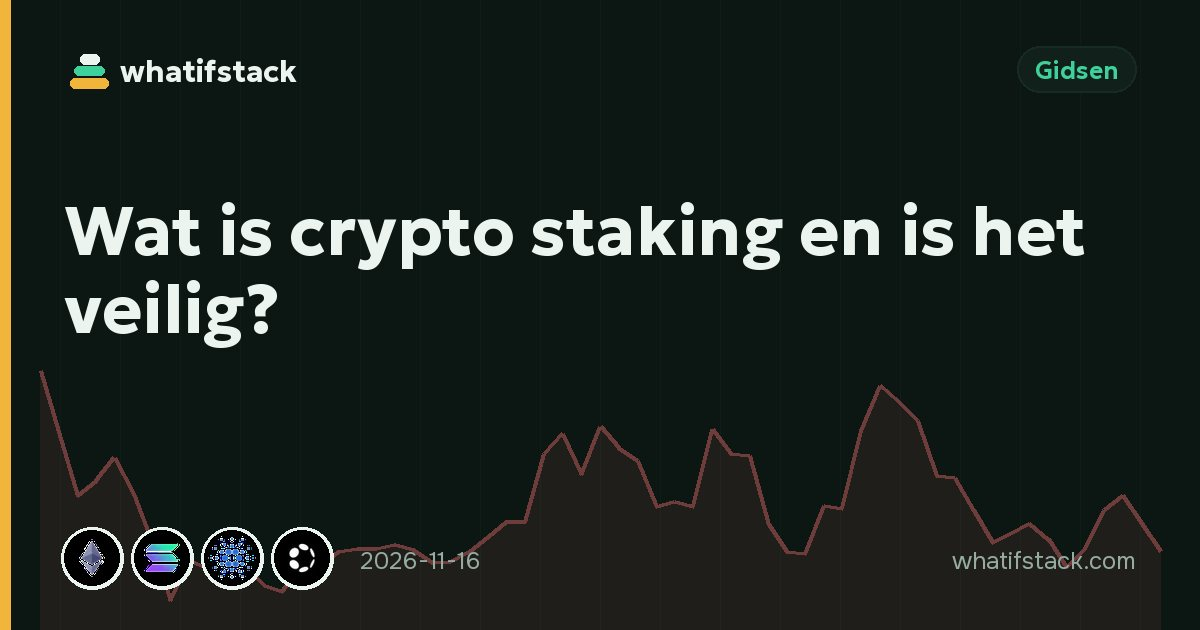
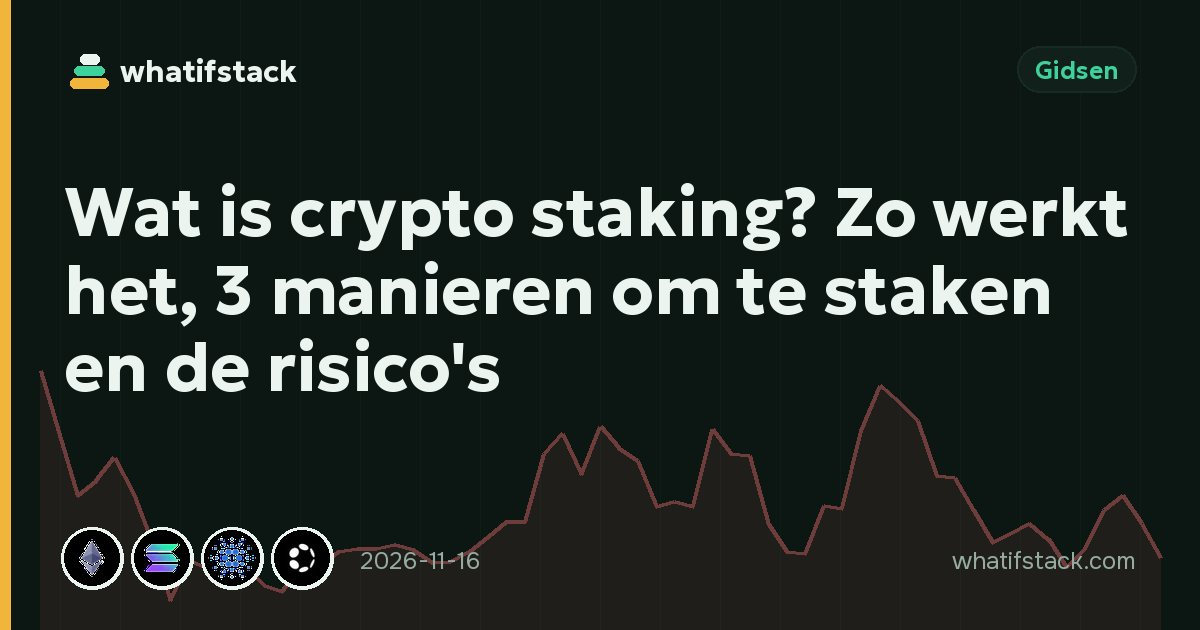
SEO: 5 pages (what-is-staking nl/de/uk, nl/asml-etf, es/cocoa) + 10 indexing requests
Claude-Session: https://claude.ai/code/session_01Nmn9VNaMtVVY8xk17eaQh1

Changed region(s): [[0.0308, 0.2714, 0.9558, 0.6333], [0.9558, 0.8444, 0.9867, 0.8746]]

diff --git a/social/seo-log.md b/social/seo-log.md
@@ -25,8 +25,14 @@ date | url | query | impressions | position | CTR | what changed | result after 
 2026-11-26 | /th/wti/ (asset) | ราคาน้ำมันโลก กราฟ (7 / 45.1); ราคาน้ำมันดิบ 7 / 53.6; วิเคราะห์ wti 4 / 39.8; กราฟ ราคาน้ำมัน โลก 4 / 64.5 | 38 | 50.5 | 0 % | only the asset's own th description (data/desc/th.json): starts «ราคาน้ำมันดิบ WTI…», NYMEX, $/barrel, one of the two world oil prices with Brent, points to the chart. Live check OK (chart OANDA:WTICOUSD, 390 px OK) | due 2026-12-10
 2026-11-26 | /vi/wti/ (asset) | giá dầu wti hôm nay (3 / 36.0); nền tảng giao dịch dầu 6 / 33.8; giá dầu thô thế giới hiện tại 2 / 7.5 | 36 | 39.7 | 0 % | only the asset's own vi description (data/desc/vi.json): starts «Giá dầu WTI hôm nay là giá dầu thô chuẩn của Mỹ…», NYMEX, $/barrel, with Brent one of the two world oil prices. Live check OK (chart OANDA:WTICOUSD, 390 px OK) | due 2026-12-10
 2026-11-26 | /ja/ntt/ (asset) | ntt 株価 (3 / 49.7) | 36 | 61.6 | 0 % | only the asset's own ja description (data/desc/ja.json): starts «NTT株価（証券コード9432）は東証プライムで円建て…» + 2023 25-for-1 split (buyable in small amounts). Live check OK (own 9432 chart, local price ¥, 390 px OK) | due 2026-12-10
+2026-11-27 | /nl/blog/what-is-staking/ | crypto staking (21 / 42.9, shared nl+de); wat is crypto staking 3 / 16.0; crypto staken 1 / 38 | 22 | 31.7 | 0 % | title «Wat is crypto staking? Zo werkt het, 3 manieren om te staken en de risico's», description (4 steps, lock-ups days–weeks, 3 ways, checklist), lead starts «Crypto staking betekent…» and names the 3 ways in sentence 2; new cover. Live check OK (no raw {{ }}, 390 px OK) | due 2026-12-11
+2026-11-27 | /de/blog/what-is-staking/ | was ist krypto staking 3 / 54.7; krypto-staking anbieter 5 / 42.0; krypto-staking anbieter vergleich 4 / 23.2 | 27 | 54.4 | 0 % | title «Was ist Krypto-Staking? Einfach erklärt: wie es funktioniert und wie sicher es ist», description (4 steps, 3 ways), lead answers in 2 sentences + link to /de/blog/crypto-staking-providers-compared/ (the «Anbieter Vergleich» queries belong to that article — not put into this title to avoid two pages for one query); new cover. Live check OK | due 2026-12-11
+2026-11-27 | /blog/what-is-staking/ (uk) | що таке стейкінг 5 / 24.0; що таке стейкінг криптовалют 4 / 41.2; стейкінг криптовалют 1 / 18.0 | ~10 | ~30 | 0 % | title kept (already matches), description (4 steps, days–weeks lock-ups, 3 ways, checklist), first sentence «Стейкінг криптовалют — це…» + the 3 ways; new cover. Live check OK | due 2026-12-11
+2026-11-27 | /nl/asml-etf/ (asset) | koers asml 6 / 53.8; asml koers 5 / 45.2; koersdoel asml 5 / 58.0; asml grafiek 2 / 22.5; asml koers euro 1 / 9.0 | 42 | 58.0 | 0 % | only the asset's own nl description (data/desc/nl.json): starts «De koers van ASML hier is die van het aandeel op de Nasdaq in dollars; in Amsterdam noteert ASML op Euronext in euro…» (explains $ vs € quote). Live check OK (chart symbol ASML, 390 px OK); template meta says «−11,9% in een jaar» = the 1-year $10/day result (r1), not the price change — template, left for the owner | due 2026-12-11
+2026-11-27 | /es/cocoa/ (asset) | precio de cacao hoy 3 / 54.0; precio del cacao según la bolsa de valores 2 / 42.0; precio cacao 2 / 49.5; precio del cacao hoy 2 / 53.0; bolsa de valores de cacao 1 / 36 | 32 | 48.8 | 0 % | only the asset's own es description (data/desc/es.json): starts «El precio del cacao hoy es el del contrato de futuros de la bolsa ICE de Nueva York, en dólares por tonelada métrica…». Live check OK (own chart CC=F, 390 px OK) | due 2026-12-11
 
 ## Notes (not changed — template/code pages, for the owner)
+- 2026-11-27: template meta on asset pages reads «{r1} in een jaar / en un año» but r1 is the 1-year $10/day DCA result, not the price change (e.g. /es/cocoa/ «+8,99% en un año» while the price is −1.9% vs 12 months ago; /nl/asml-etf/ «−11,9%» while the price is ~+24%) — code in scripts/i18n_ap.py + build.py, not touched (owner decision). /csu/revenue/ 17 / 4.5 («constellation software») and /ghc/ 36 / 8.0 («graham holdings» on the uk page; GHC analysis written 2026-11-25) left alone. Earlier changes not due before 2026-12-07.
 - 2026-11-26: biggest pages are still template hubs with junk/anonymised queries: /pt/converter/ 639 / 8.3, /it/converter/ 295, /fr/converter/ 230, /ru/largest-companies/ 193 / 9.0 (2 clicks), /zh/largest-companies/dividend/ 169 / 2.0. /ru/converter/usdt-rub/ 36 / 22.5 («из usdt в рубли», «курс usdt к рублю») and /en/aapl/market-cap/ 51 / 72 («apple market cap») are template pages — left alone. Earlier changes (2026-11-23…25) are not due before 2026-12-07.
 - 2026-11-25: /pt/converter/ is now 632 impr / pos 8.3 (was 486) — same junk-query pattern; /en/nvda/ 111 / 8.0 and /it/nvda/ 107 / 6.1, /ru/news/nvidia-plunges-…/ 90 / 7.9, /en/blog/nvidia-10-dollars-a-day/ 73 / 6.9 — Search Console shows (almost) no queries for them (anonymised), nothing to target. «gümüş gram euro» 84 / 25 lands on /de/converter/gram-eur/ (GRAM coin, not silver grams) — wrong intent, left alone.
 - 2026-11-24: /zh/largest-companies/dividend/ 129 impr / pos 2.1 / 0 clicks and /zh/blog/how-to-invest-in-ai-stocks/ 58 / 1.4, /zh/blog/how-much-to-invest-per-month/ 57 / 1.5 — top positions but 0 clicks; Search Console hides most of their queries (anonymised), so nothing to target yet. /pt/converter/ now 486 impr / pos 7 — same junk-query pattern as the other converter hubs.
@@ -61,3 +67,13 @@ Rule (owner 2026-11-25): each URL is requested ONCE — never request a URL that
 | 2026-11-26 | https://whatifstack.com/en/blog/how-to-buy-bitcoin-with-a-bank-card/ | not indexed | requested («Indexing requested») |
 | 2026-11-26 | https://whatifstack.com/en/news/bitcoin-losses-highest-since-ftx-glassnode/ | not indexed | requested («Indexing requested») |
 | 2026-11-26 | https://whatifstack.com/blog/inzhur-my-story-1500-certificates/ | not indexed (new) | requested («Отправлен запрос на индексирование») |
+| 2026-11-27 | https://whatifstack.com/pl/blog/how-to-buy-bitcoin-in-poland/ | not indexed | requested («Отправлен запрос на индексирование») |
+| 2026-11-27 | https://whatifstack.com/en/blog/how-to-buy-bitcoin-in-poland/ | not indexed | requested («Отправлен запрос на индексирование») |
+| 2026-11-27 | https://whatifstack.com/tr/blog/how-to-buy-bitcoin-in-turkey/ | not indexed | requested («Отправлен запрос на индексирование») |
+| 2026-11-27 | https://whatifstack.com/en/blog/how-to-buy-bitcoin-in-turkey/ | not indexed | requested («Отправлен запрос на индексирование») |
+| 2026-11-27 | https://whatifstack.com/ja/blog/largest-french-companies/ | not indexed | requested («Отправлен запрос на индексирование») |
+| 2026-11-27 | https://whatifstack.com/ru/blog/largest-swiss-companies/ | not indexed | requested («Отправлен запрос на индексирование») |
+| 2026-11-27 | https://whatifstack.com/ja/blog/largest-dutch-companies/ | not indexed | requested («Отправлен запрос на индексирование») |
+| 2026-11-27 | https://whatifstack.com/nl/blog/largest-dutch-companies/ | not indexed | requested («Отправлен запрос на индексирование») |
+| 2026-11-27 | https://whatifstack.com/ko/blog/largest-taiwanese-companies/ | not indexed | requested («Отправлен запрос на индексирование») |
+| 2026-11-27 | https://whatifstack.com/ja/blog/largest-taiwanese-companies/ | not indexed | requested («Отправлен запрос на индексирование») |

diff --git a/content/blog/uk/what-is-staking.md b/content/blog/uk/what-is-staking.md
@@ -1,11 +1,11 @@
 ---
 title: Що таке стейкінг криптовалюти і чи це безпечно
-description: Стейкінг криптовалюти простими словами: як він працює, блокування монет, стейкінг на біржі чи у власному гаманці та реальні ризики, які варто перевірити.
+description: Що таке стейкінг криптовалют: як він працює в 4 кроки, звідки винагорода, блокування від днів до тижнів, 3 способи стейкати і чек-лист ризиків.
 date: 2026-11-16
 category: guides
 assets: eth, sol, ada, dot, atom
 ---
-**Стейкінг** — це коли ти блокуєш криптомонети, щоб допомагати блокчейну працювати, і отримуєш за це нові монети як винагороду. Його часто порівнюють з депозитом у банку, але працює він зовсім інакше і має власні ризики.
+**Стейкінг криптовалют** — це коли ти блокуєш монети, щоб допомагати блокчейну на proof of stake (Ethereum, Solana, Cardano) працювати, і отримуєш за це нові монети як винагороду. Стейкати можна 3 способами — на біржі, з власного гаманця або через ліквідний стейкінг; це схоже на депозит у банку, але працює зовсім інакше і має власні ризики.
 
 У цьому гайді пояснюємо, як працює стейкінг, що означає «блокування» (lock-up), чим стейкінг на біржі відрізняється від стейкінгу в мережі і що може піти не так.
 

diff --git a/content/blog/de/what-is-staking.md b/content/blog/de/what-is-staking.md
@@ -1,11 +1,11 @@
 ---
-title: Was ist Krypto-Staking und ist es sicher?
-description: Krypto-Staking einfach erklärt: wie es funktioniert, Sperrfristen, Staking auf der Börse vs. On-Chain und die echten Risiken, bevor Sie Coins staken.
+title: "Was ist Krypto-Staking? Einfach erklärt: wie es funktioniert und wie sicher es ist"
+description: Was ist Krypto-Staking? In 4 Schritten erklärt – woher die Belohnung kommt, Sperrfristen von Tagen bis Wochen, 3 Wege zu staken und die Risiken.
 date: 2026-11-16
 category: guides
 assets: eth, sol, ada, dot, atom
 ---
-**Staking** bedeutet, Krypto-Coins zu hinterlegen, um eine Blockchain am Laufen zu halten – und dafür neue Coins als Belohnung zu erhalten. Es wird oft mit einem Sparkonto verglichen, funktioniert aber ganz anders und hat eigene Risiken.
+**Krypto-Staking** bedeutet, Coins zu hinterlegen, um eine Proof-of-Stake-Blockchain wie Ethereum oder Solana am Laufen zu halten – und dafür neue Coins als Belohnung zu erhalten. Staken können Sie auf 3 Wegen: über eine Börse, aus der eigenen Wallet oder per Liquid Staking; es wird oft mit einem Sparkonto verglichen, funktioniert aber ganz anders und hat eigene Risiken. Welche Anbieter wie viel von den Belohnungen behalten, zeigt unser [Vergleich der Staking-Anbieter](/de/blog/crypto-staking-providers-compared/).
 
 Dieser Ratgeber erklärt, wie Staking funktioniert, was eine „Sperrfrist“ ist, wie sich Staking auf einer Börse vom Staking On-Chain unterscheidet und was schiefgehen kann.
 

diff --git a/content/blog/nl/what-is-staking.md b/content/blog/nl/what-is-staking.md
@@ -1,11 +1,11 @@
 ---
-title: Wat is crypto staking en is het veilig?
-description: Crypto staking simpel uitgelegd: hoe het werkt, lock-up periodes, staken via een exchange of on-chain, en de echte risico's voordat je coins gaat staken.
+title: Wat is crypto staking? Zo werkt het, 3 manieren om te staken en de risico's
+description: Wat is crypto staking? Uitleg in 4 stappen: waar de beloning vandaan komt, lock-ups van dagen tot weken, 3 manieren om te staken en een checklist.
 date: 2026-11-16
 category: guides
 assets: eth, sol, ada, dot, atom
 ---
-**Staking** betekent dat je cryptocoins vastzet om een blockchain draaiende te houden — en daar als beloning nieuwe coins voor krijgt. Het wordt vaak vergeleken met een spaarrekening, maar het werkt heel anders en heeft eigen risico's.
+**Crypto staking** betekent dat je cryptocoins vastzet om een proof-of-stake-blockchain zoals Ethereum of Solana draaiende te houden — en daar als beloning nieuwe coins voor krijgt. Je kunt op 3 manieren staken (via een exchange, on-chain vanuit je eigen wallet of via liquid staking), en het lijkt op een spaarrekening, maar werkt heel anders en heeft eigen risico's.
 
 Deze gids legt uit hoe staking werkt, wat een "lock-up" is, hoe staken via een exchange verschilt van staken on-chain, en wat er mis kan gaan.
 
